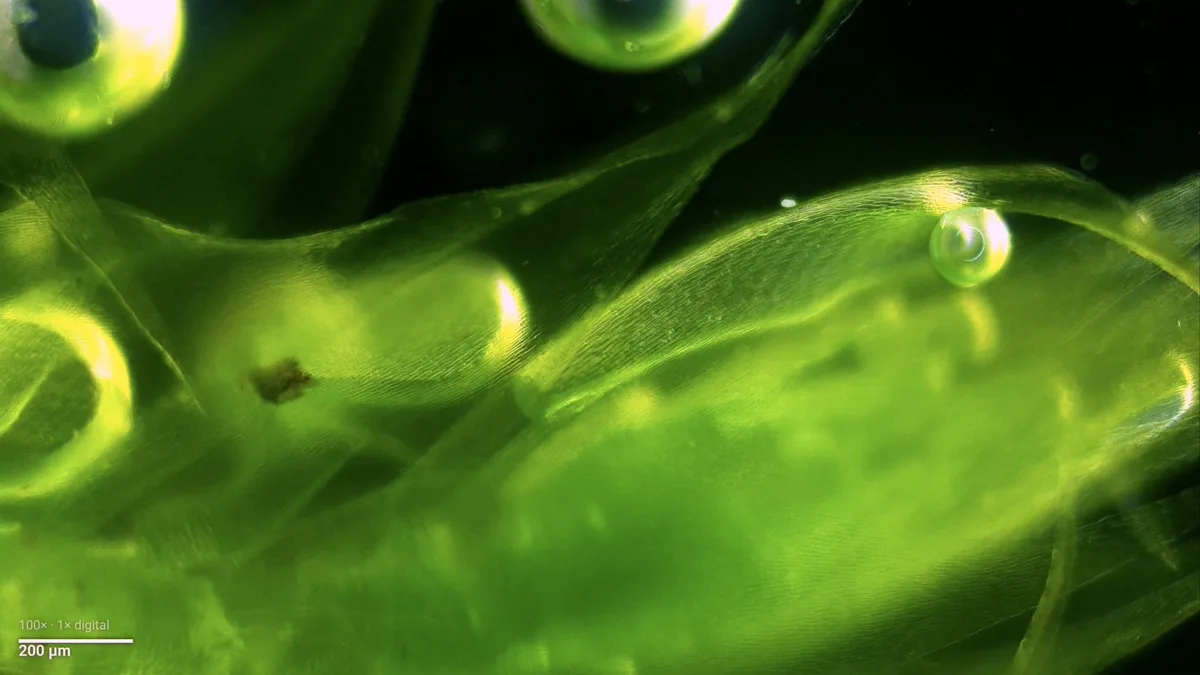
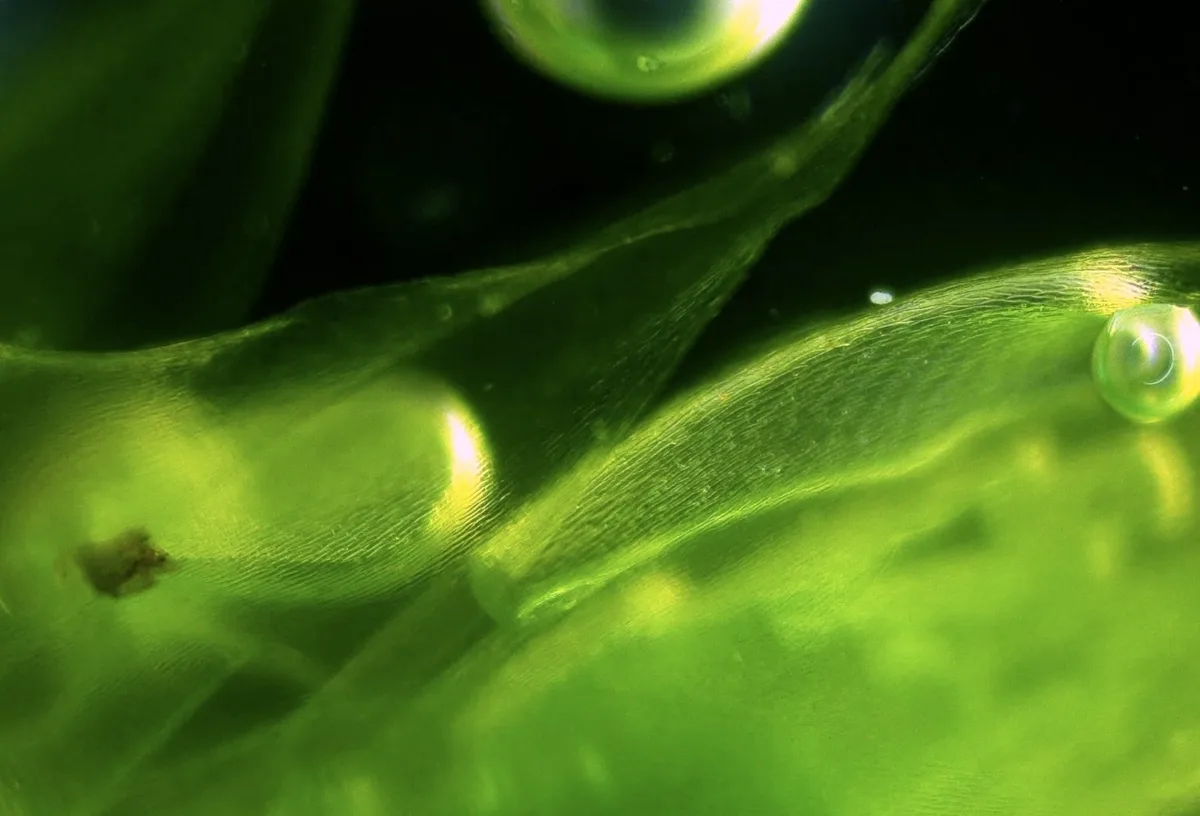
Update Moss, Moth Scale, Moth Scale2 to new webp; remove Flower Stamen and insect wing

diff --git a/src/AppLeisure.tsx b/src/AppLeisure.tsx
@@ -664,15 +664,13 @@ function StepsSection() {
           margin: "0 auto",
         }}>
           {[
-            { src: "/images/more_image/insect wing.webp",     label: "Insect wing" },
             { src: "/images/more_image/onion cell.webp",      label: "Onion cell" },
             { src: "/images/more_image/pollen.webp",          label: "Pollen" },
             { src: "/images/more_image/sugar crystal 2.webp", label: "Sugar crystal" },
             { src: "/images/more_image/moth1.webp",           label: "Moth eye" },
             { src: "/images/more_image/moth2.webp",           label: "Moth head" },
             { src: "/images/more_image/Moth Scale.webp",      label: "Moth scale" },
-            { src: "/images/more_image/Moth Scale 2.webp",    label: "Moth scale 2" },
-            { src: "/images/more_image/Flower Stamen.webp",   label: "Flower stamen" },
+            { src: "/images/more_image/Moth Scale2.webp",     label: "Moth scale 2" },
             { src: "/images/more_image/Moss.webp",            label: "Moss" },
           ].map((item, i) => (
             <div key={i} style={{
